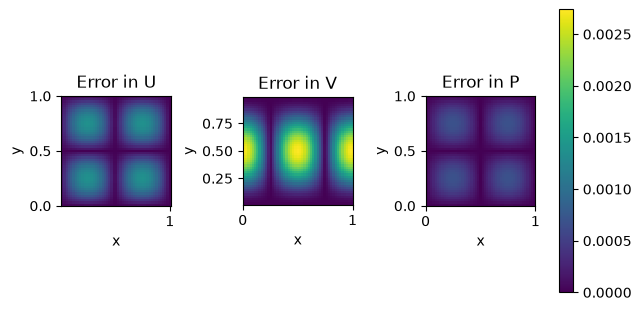
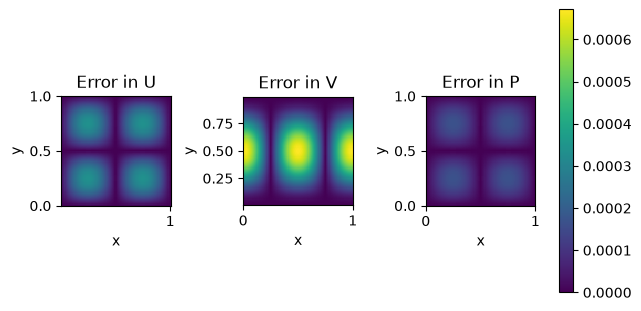
Plots are finished

diff --git a/Scripts/stokes_solver_v2.py b/Scripts/stokes_solver_v2.py
@@ -241,7 +241,7 @@ def convTest(mesh_range, num_trials, exact_sol, num_Operator, x, y, BCs, filepat
 def main():
     # Control Panel
     mu = 1.0 # Viscousity
-    Nx = 250 # number of nodes in the type 1 grid in each direction
+    Nx = 100 # number of nodes in the type 1 grid in each direction
     x_0 = 0.0 # x left boundary
     x_L = 1.0 # x right boundary
     tp = 2*np.pi
@@ -313,6 +313,7 @@ def main():
     plt.figure()
     ax = plt.axes()
     plt.pcolormesh(P_bundle[0], P_bundle[1], U_mag, cmap = 'viridis')
+    plt.streamplot(P_bundle[0], P_bundle[1], U_vec[0], U_vec[1], density = 0.5, color = "white", broken_streamlines=False, num_arrows = 5)
     ax.set_aspect('equal')
     ax.set_xlabel("x")
     ax.set_ylabel("y")
@@ -321,8 +322,6 @@ def main():
     ax1[1].set_title('Error in V')
     ax1[2].set_title('Error in P')
     plt.savefig("Images\\mag_u.png", bbox_inches='tight')
-
-    # Plot a flow field
 
     # Profile code
     
